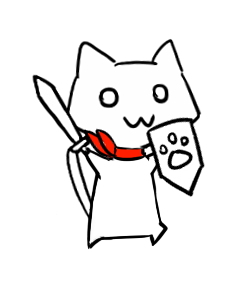
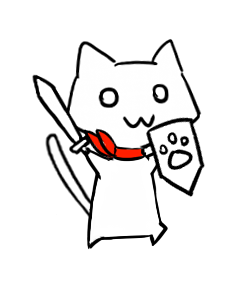
Add air attack

Changed region(s): [[0.168, 0.42, 0.364, 0.72]]

diff --git a/Assets/Scripts/PlayerPlatformerController.cs b/Assets/Scripts/PlayerPlatformerController.cs
@@ -18,14 +18,16 @@ public class PlayerPlatformerController : BattleObject {
     public bool alive = true;
     public float comboGroundAttackInterval = 0.25f;
     public float comboGroundAttackBufferReceiveTime = 0.1f;
-    public float airAttackLasting = 0.1f;
-    public float airAttackSpeed = 10;
-    public int airAttackTimesRemaining = 1;
+    public float airAttackLasting = 0.2f;
+    public float airAttackSpeed = 3;
+    public int airAttackMaxTimes = 2;
 
     public Transform groundAttackWavePrefab;
+    public Transform airAttackWavePrefab;
 
     private SpriteRenderer spriteRenderer;
     private Animator animator;
+    private Transform airAttackWave;
 
     private bool flip = false;
     private float lastGroundAttackTimePassed = 99999f;
@@ -33,6 +35,8 @@ public class PlayerPlatformerController : BattleObject {
     private float guardRecoverRemaining = 0f;
     private float hittedRecoverRemaining = 0f;
     private float airAttackRemaining = 0f;
+    private float airAttackWaveSpeedMultiplier = 0.045f;
+    private int airAttackTimesRemaining = 1;
 
 
     protected override void BattleObjectStartInternal()
@@ -68,6 +72,10 @@ public class PlayerPlatformerController : BattleObject {
     {
         airAttackRemaining = 0f;
         ignoreGravity = false;
+        if (airAttackWave != null)
+        {
+            Destroy(airAttackWave.gameObject);
+        }
     }
 
     private void groundAttack()
@@ -86,11 +94,17 @@ public class PlayerPlatformerController : BattleObject {
 
     private void airAttack()
     {
+        // Initiate attack
         airAttackTimesRemaining--;
         airAttackRemaining = airAttackLasting;
         ignoreGravity = true;
         animator.SetTrigger("Attack");
         status = 2;
+        // Release wave
+        Vector3 position = transform.position;
+        position.z = -1;
+        Quaternion quaternion = flip ? Quaternion.Euler(new Vector3(0, 180, 0)) : Quaternion.identity;
+        airAttackWave = Instantiate(airAttackWavePrefab, position, quaternion);
     }
 
     protected override void UpdateIntention(float deltaTime)
@@ -104,7 +118,7 @@ public class PlayerPlatformerController : BattleObject {
 
         if (dummyGrounded)
         {
-            airAttackTimesRemaining = 1;
+            airAttackTimesRemaining = airAttackMaxTimes;
             switch(status)
             {
                 case 0:
@@ -182,6 +196,7 @@ public class PlayerPlatformerController : BattleObject {
                     } else
                     {
                         move.x = flip ? -airAttackSpeed : airAttackSpeed;
+                        airAttackWave.localScale += new Vector3(Mathf.Abs(move.x * airAttackWaveSpeedMultiplier), 0, 0);
                     }
                     break;
                 case 3: // Guard, falls in middle, cancel guard

diff --git a/Assets/Scripts/MainCharaAirAttackWave.cs b/Assets/Scripts/MainCharaAirAttackWave.cs
@@ -1,0 +1,18 @@
+using System.Collections;
+using System.Collections.Generic;
+using UnityEngine;
+
+public class MainCharaAirAttackWave : MonoBehaviour
+{
+    // Start is called before the first frame update
+    void Start()
+    {
+        
+    }
+
+    // Update is called once per frame
+    void Update()
+    {
+        
+    }
+}
